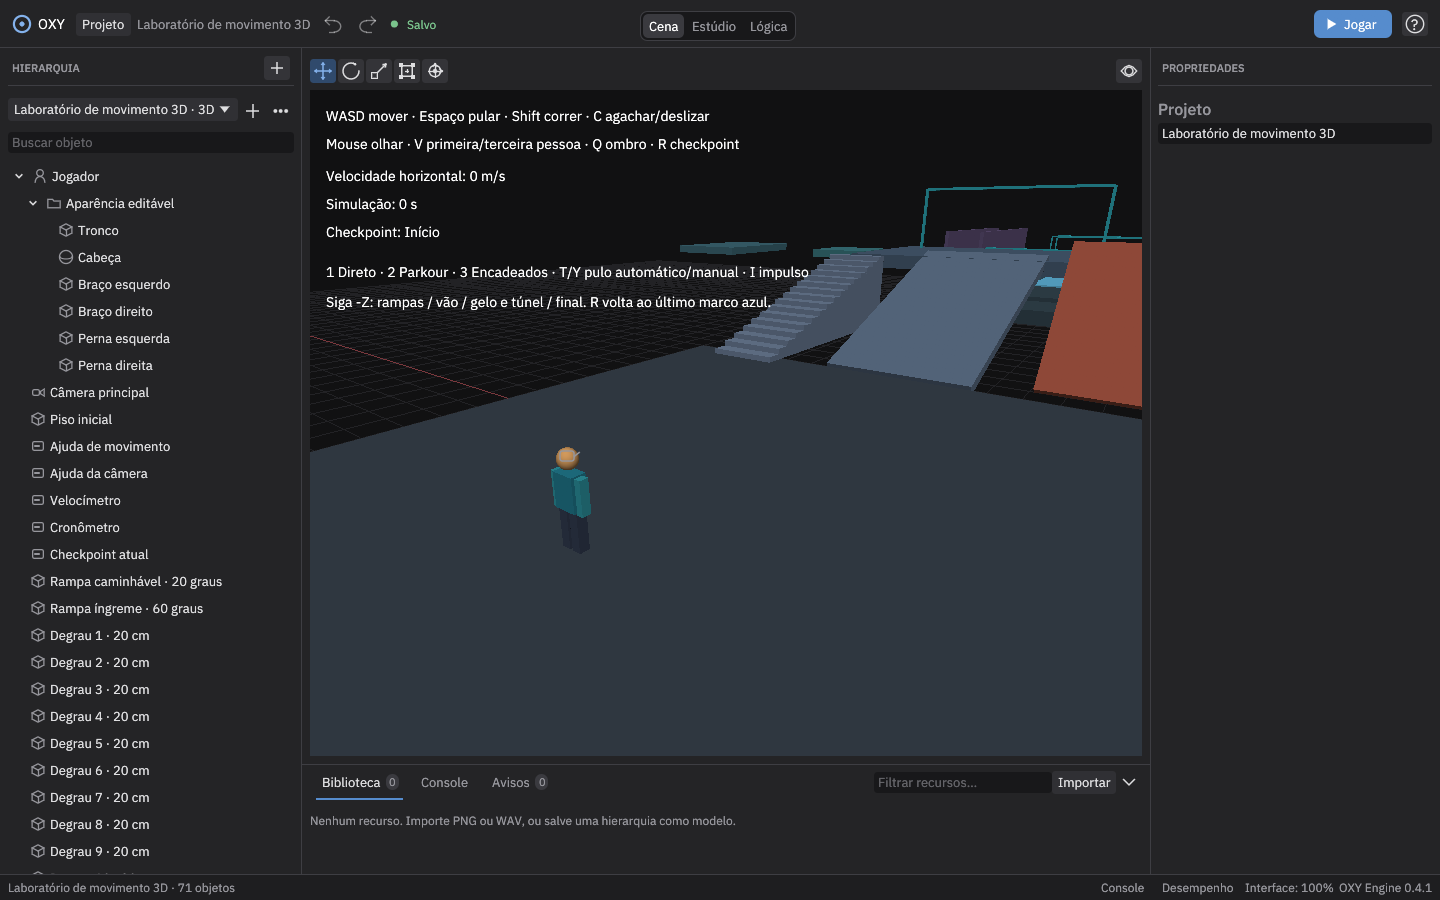
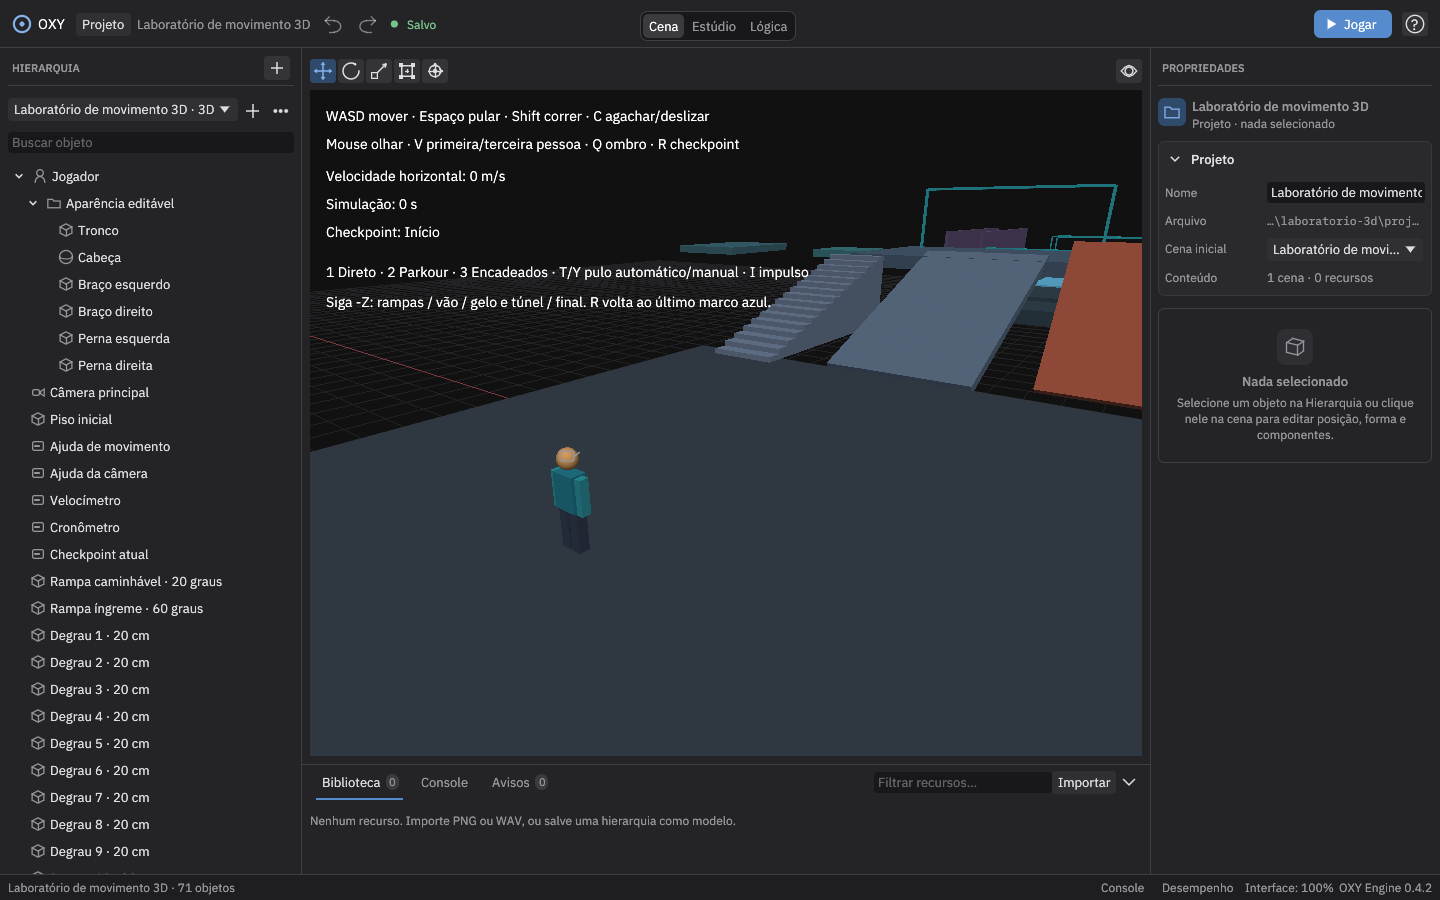
chore: lançar OXY Engine 0.4.2
Versão do workspace, Cargo.lock (somente as crates do projeto), README,
captura do README e CHANGELOG atualizados para 0.4.2.

diff --git a/README.md b/README.md
@@ -4,7 +4,7 @@ Editor e runtime de jogos desktop escritos em Rust, sem outra engine como núcle
 
 ![Editor da OXY Engine com o Laboratório 3D aberto](assets/screenshots/editor.png)
 
-**Versão atual: 0.4.1.** Veja as novidades no [CHANGELOG](CHANGELOG.md) e o uso detalhado no [guia do editor](docs/guia-do-editor.md).
+**Versão atual: 0.4.2.** Veja as novidades no [CHANGELOG](CHANGELOG.md) e o uso detalhado no [guia do editor](docs/guia-do-editor.md).
 
 ## O que ela faz
 
@@ -63,7 +63,7 @@ cargo clippy --workspace --all-targets --locked -- -D warnings
 ./scripts/test-native.ps1
 # Engine portátil: editor + player + exemplos. -SkipBuild reutiliza o release já compilado.
 ./scripts/package-engine.ps1
-./scripts/test-portable.ps1 -Zip './dist/OXY-Engine-0.4.1-windows-x64.zip'
+./scripts/test-portable.ps1 -Zip './dist/OXY-Engine-0.4.2-windows-x64.zip'
 # Exportar um jogo: só runtime e dados, sem depender do editor.
 ./scripts/package.ps1 -Project 'examples/validacao' -Destination 'dist/Meu-Jogo'
 ```

diff --git a/CHANGELOG.md b/CHANGELOG.md
@@ -2,7 +2,7 @@
 
 Resumo de cada versão. Os relatórios completos, com testes, capturas e medições, ficam em [`docs/`](docs/); as capturas de versões anteriores continuam acessíveis pelas tags do repositório.
 
-## Não lançado
+## 0.4.2 — 2026-10-11
 
 - **Tela inicial no visual novo:** barra superior e barra de status iguais às do editor, cartões para **Novo projeto** e **Abrir projeto**, um bloco **Exemplos** com a explicação de cada exemplo, e **Projetos recentes** num bloco com busca, há quanto tempo cada projeto foi salvo, aviso de arquivo não encontrado e as ações (Abrir, Remover da lista) no "⋯". Em janelas estreitas as colunas se empilham.
 - **Novo projeto:** a primeira cena (2D ou 3D) é escolhida em dois cartões lado a lado, com ícone e marca de seleção.
